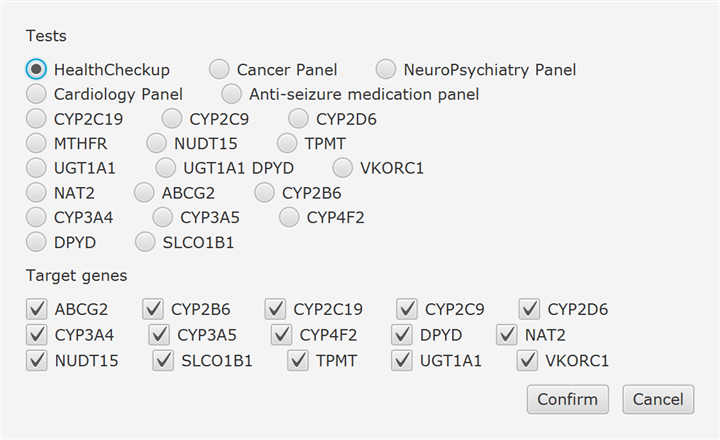
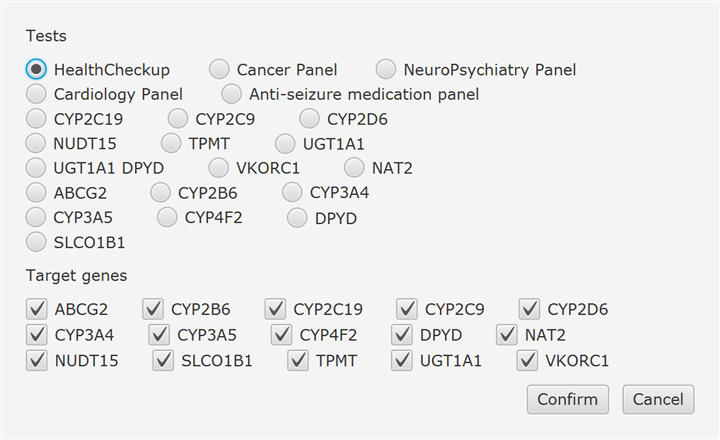
Remove unsupported MTHFR single-gene test
- Drop the MTHFR row from settings.xlsx (it included none of the 15
  target genes, so the test produced no output)
- Remove MTHFR from the Cancer Panel report's TARGET GENES line
- Delete the orphaned MTHFR comment file
- Update README single-gene reports note
- Regenerate the Target Test Selection figure without MTHFR

Changed region(s): [[0.0611, 0.2364, 0.5806, 0.5909]]

diff --git a/README.md b/README.md
@@ -63,8 +63,8 @@ NAT2, NUDT15, SLCO1B1, TPMT, UGT1A1, VKORC1.
 | NeuroPsychiatry | CYP2B6, CYP2C9, CYP2C19, CYP2D6, CYP3A4, CYP3A5 |
 | Anti-seizure medication (ASM) | CYP2C9, CYP2C19 |
 
-**Single-gene reports:** available for **each of the 15 genes** (and additionally for MTHFR
-and a combined UGT1A1 + DPYD test).
+**Single-gene reports:** available for **each of the 15 genes** (and a combined
+UGT1A1 + DPYD test).
 
 > ⚠️ The **Health Checkup** and **Anti-seizure medication** reports also include
 > **HLA-A / HLA-B** risk-allele rows (e.g., HLA-A\*31:01, HLA-B\*15:02). These results come